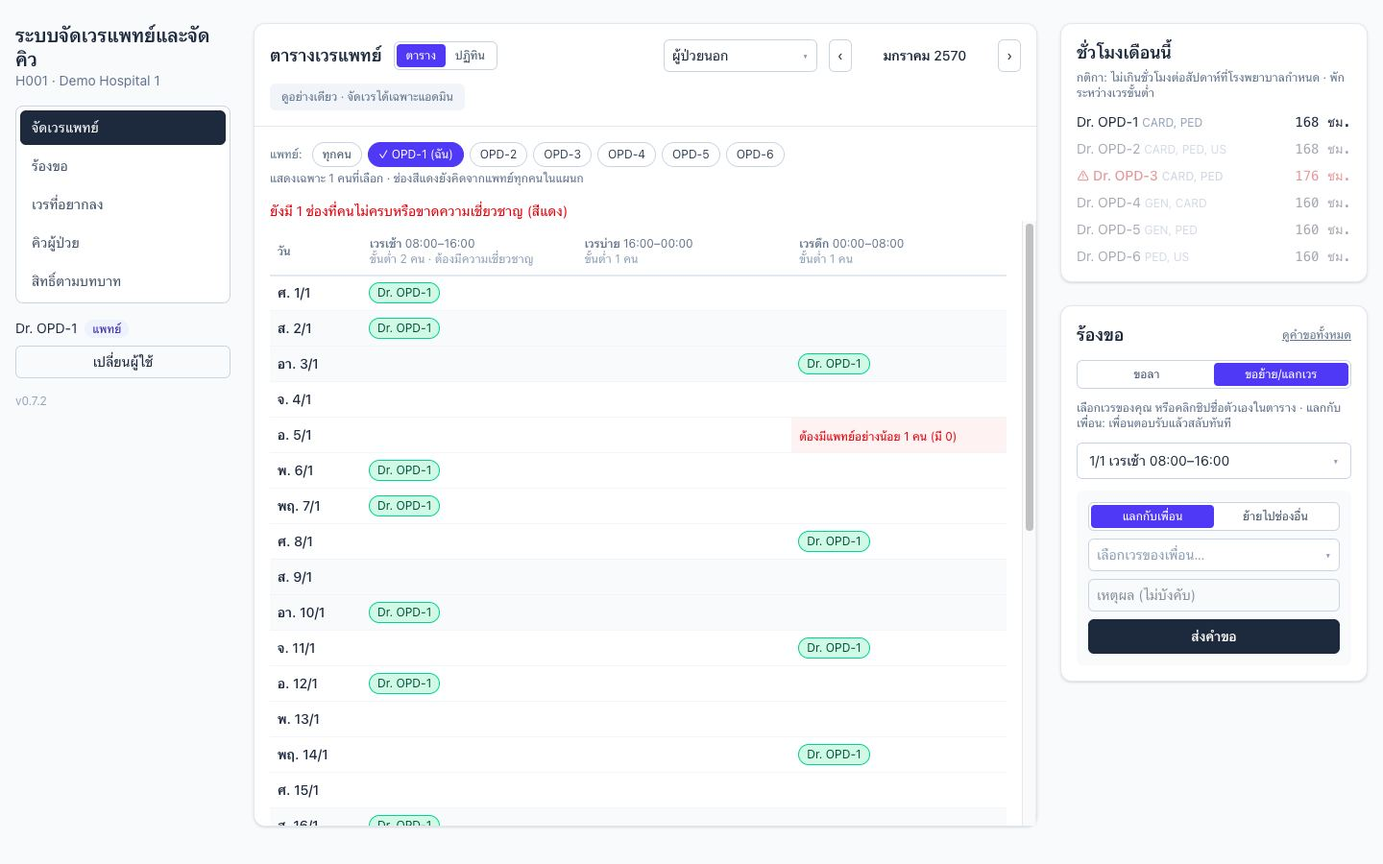
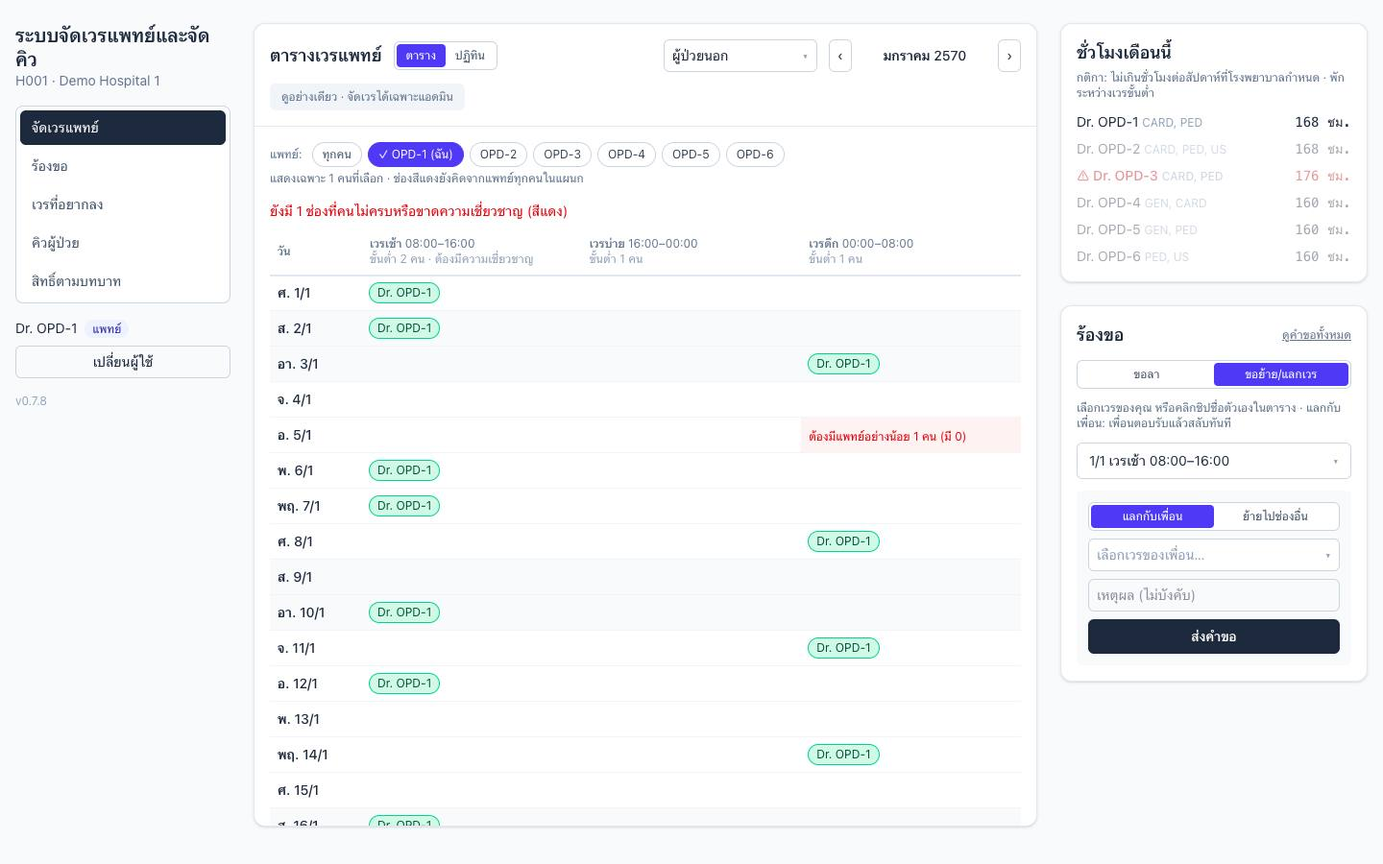
docs: demo screenshots as overview + zoomed detail with links; v0.7.8

diff --git a/docs/ARCHITECTURE.md b/docs/ARCHITECTURE.md
@@ -1,6 +1,6 @@
 # ระบบจัดเวรแพทย์และจัดคิวโรงพยาบาล — Architecture
 
-จิตฤดี ดวงดี · 27 ต.ค. 2569 · โค้ด: [github.com/JitrudeeDongdee/waka-crud](https://github.com/JitrudeeDongdee/waka-crud) · เดโม: [jitrudeedongdee.github.io/waka-crud](https://jitrudeedongdee.github.io/waka-crud/) · ตรงกับเวอร์ชัน v0.7.7
+จิตฤดี ดวงดี · 27 ต.ค. 2569 · โค้ด: [github.com/JitrudeeDongdee/waka-crud](https://github.com/JitrudeeDongdee/waka-crud) · เดโม: [jitrudeedongdee.github.io/waka-crud](https://jitrudeedongdee.github.io/waka-crud/) · ตรงกับเวอร์ชัน v0.7.8
 
 เอกสารนี้อธิบายระบบที่เริ่มจาก 15 โรงพยาบาลและขยายไปถึง 30 แห่ง ได้แก่ ขั้นตอนการทำงาน (BPMN), โครงสร้างฐานข้อมูล (ER diagram), server และ network บน AWS ทีละขั้นของการขยาย, ข้อเสนอฟีเจอร์ถัดไป และหน้าจอเดโม
 
@@ -122,6 +122,8 @@
 
 ---
 
+<div style="break-before: page"></div>
+
 ## 3. Network และ Server
 
 ### 3.1 ขนาดงานที่ต้องรองรับ (ประมาณการ)
@@ -179,6 +181,8 @@
 **ใช้ AWS:** region Asia Pacific (Thailand) `ap-southeast-7` เก็บข้อมูลผู้ป่วยไว้ในประเทศ บริการที่ใช้คือ CloudFront + WAF, ALB, ECS on Fargate, RDS for MySQL, ElastiCache, S3, CloudWatch, ECR, Secrets Manager และ Site-to-Site VPN ต้องตรวจอีกครั้งว่ามีครบใน region นี้ ณ วันที่เริ่มใช้ ถ้าบริการไหนยังไม่มี ให้ใช้ region สิงคโปร์ (`ap-southeast-1`) เฉพาะส่วนที่ไม่เก็บข้อมูลผู้ป่วย
 
 ---
+
+<div style="break-before: page"></div>
 
 ## 4. ข้อเสนอฟีเจอร์ถัดไป
 
@@ -259,102 +263,104 @@
 
 ---
 
+<div style="break-before: page"></div>
+
 ## 5. หน้าจอเดโม
 
-ภาพจากระบบที่รันจริงในเครื่อง (โค้ดเดียวกับเวอร์ชัน v0.7.2) ขนาดจอ 1440×900 ข้อมูลเป็นข้อมูลตัวอย่างทั้งหมด ลองใช้เองได้ที่ [jitrudeedongdee.github.io/waka-crud](https://jitrudeedongdee.github.io/waka-crud/)
+แต่ละกรณีมีภาพเต็มจอ (ซ้าย) และภาพขยายเฉพาะส่วนที่อธิบาย (ขวา) ภาพมาจากระบบที่รันในเครื่องด้วยข้อมูลตัวอย่าง ข้อมูลบนเว็บเดโมสุ่มใหม่ทุกครั้งที่เปิด วันที่และชื่อจึงอาจไม่ตรงกับภาพ แต่หน้าและการทำงานเหมือนกัน เปิดลิงก์แล้วเลือกผู้ใช้ตามที่ระบุ ระบบจะพากลับมาที่หน้านั้น
 
 ### 5.1 หน้าเลือกผู้ใช้ทดลอง
 
-เดโมไม่มีรหัสผ่าน ให้เลือกผู้ใช้ตามบทบาท แต่ละกล่องบอกสิทธิ์ของบทบาทนั้น แพทย์มีครบทุกคนของโรงพยาบาลแรก ระบบจริงใช้ SSO ของโรงพยาบาลแทน (เปิดหน้านี้ได้เฉพาะเมื่อ `DEMO_LOGIN=true`)
+เดโมไม่มีรหัสผ่าน ให้เลือกผู้ใช้ตามบทบาท แต่ละกล่องบอกสิทธิ์ของบทบาทนั้น แพทย์มีครบทุกคนของโรงพยาบาลแรก ระบบจริงใช้ SSO ของโรงพยาบาลแทน (เปิดหน้านี้ได้เฉพาะเมื่อ `DEMO_LOGIN=true`)<br>**เปิดดู:** [https://jitrudeedongdee.github.io/waka-crud/login](https://jitrudeedongdee.github.io/waka-crud/login)
 
-![หน้าเลือกผู้ใช้ทดลอง](screenshots/01-login.jpg)
+![หน้าเลือกผู้ใช้ทดลอง](screenshots/01-login.jpg "ov") ![หน้าเลือกผู้ใช้ทดลอง (ขยาย)](screenshots/01-login-detail.jpg "dt")
 
 ### 5.2 ตารางเวรรายเดือน (หัวหน้าแผนก)
 
-ช่องสีแดง = คนไม่ครบ · กล่องส้ม "ต้องเลือก" = มีแพทย์อยากลงช่องนี้มากกว่าที่ต้องการ ระบบจึงไม่เลือกให้ กดชื่อเพื่อเลือก · ชิปแดง ⚠ = ลงเวรได้แต่ผิดกติกาแบบเตือน (ในภาพ Dr. OPD-3 พักไม่ถึง 8 ชม.) และชื่อในแผงชั่วโมงเป็นสีแดงด้วย · ชิปเขียว ✓ = ได้ตามที่อยากลง · ทุก dropdown ค้นหาได้
+ช่องสีแดง = คนไม่ครบ · กล่องส้ม "ต้องเลือก" = มีแพทย์อยากลงช่องนี้มากกว่าที่ต้องการ ระบบจึงไม่เลือกให้ กดชื่อเพื่อเลือก · ชิปแดง ⚠ = ลงเวรได้แต่ผิดกติกาแบบเตือน (ในภาพ Dr. OPD-3 พักไม่ถึง 8 ชม.) และชื่อในแผงชั่วโมงเป็นสีแดงด้วย · ชิปเขียว ✓ = ได้ตามที่อยากลง · ทุก dropdown ค้นหาได้<br>**เปิดดู:** [https://jitrudeedongdee.github.io/waka-crud/roster/table?dept=1&month=2027-01](https://jitrudeedongdee.github.io/waka-crud/roster/table?dept=1&month=2027-01) · ล็อกอินเป็น หัวหน้าแผนก
 
-![ตารางเวรรายเดือน (หัวหน้าแผนก)](screenshots/02-roster-table.jpg)
+![ตารางเวรรายเดือน (หัวหน้าแผนก)](screenshots/02-roster-table.jpg "ov") ![ตารางเวรรายเดือน (หัวหน้าแผนก) (ขยาย)](screenshots/02-roster-table-detail.jpg "dt")
 
 ### 5.3 ปฏิทินเวร (ทุกคน)
 
-ตัวกรองแพทย์ตัวเดียวกับตาราง สีตามช่วงเวร วันที่มีช่องขาดคนมีกรอบแดง
+ตัวกรองแพทย์ตัวเดียวกับตาราง สีตามช่วงเวร วันที่มีช่องขาดคนมีกรอบแดง<br>**เปิดดู:** [https://jitrudeedongdee.github.io/waka-crud/roster/calendar?dept=1&month=2027-01](https://jitrudeedongdee.github.io/waka-crud/roster/calendar?dept=1&month=2027-01) · ล็อกอินเป็น หัวหน้าแผนก
 
-![ปฏิทินเวร (ทุกคน)](screenshots/03-roster-calendar.jpg)
+![ปฏิทินเวร (ทุกคน)](screenshots/03-roster-calendar.jpg "ov") ![ปฏิทินเวร (ทุกคน) (ขยาย)](screenshots/03-roster-calendar-detail.jpg "dt")
 
 ### 5.4 ปฏิทินเวรเมื่อเลือกแพทย์คนเดียว
 
-สรุปเวรและชั่วโมงในเดือน วันลา และชั่วโมงต่อสัปดาห์เทียบเพดานทางขวา เวรที่ผิดกติกาเป็นสีแดง
+สรุปเวรและชั่วโมงในเดือน วันลา และชั่วโมงต่อสัปดาห์เทียบเพดานทางขวา เวรที่ผิดกติกาเป็นสีแดง<br>**เปิดดู:** [https://jitrudeedongdee.github.io/waka-crud/roster/calendar?dept=1&month=2027-01&doctors=3](https://jitrudeedongdee.github.io/waka-crud/roster/calendar?dept=1&month=2027-01&doctors=3) · ล็อกอินเป็น หัวหน้าแผนก
 
-![ปฏิทินเวรเมื่อเลือกแพทย์คนเดียว](screenshots/04-roster-calendar-doctor.jpg)
+![ปฏิทินเวรเมื่อเลือกแพทย์คนเดียว](screenshots/04-roster-calendar-doctor.jpg "ov") ![ปฏิทินเวรเมื่อเลือกแพทย์คนเดียว (ขยาย)](screenshots/04-roster-calendar-doctor-detail.jpg "dt")
 
 ### 5.5 ร้องขอข้างตารางเวร (แพทย์)
 
-แพทย์เห็นเวรของตัวเองเป็นสีเขียว คลิกชิปเวรที่ยังไม่เริ่มแล้วกล่อง "ร้องขอ" สลับไปแท็บขอย้าย/แลกเวรพร้อมเลือกเวรนั้นให้ เลือกแลกกับเพื่อนหรือย้ายไปช่องอื่นได้โดยยังเห็นตาราง
+แพทย์เห็นเวรของตัวเองเป็นสีเขียว คลิกชิปเวรที่ยังไม่เริ่มแล้วกล่อง "ร้องขอ" สลับไปแท็บขอย้าย/แลกเวรพร้อมเลือกเวรนั้นให้ เลือกแลกกับเพื่อนหรือย้ายไปช่องอื่นได้โดยยังเห็นตาราง<br>**เปิดดู:** [https://jitrudeedongdee.github.io/waka-crud/roster/table?dept=1&doctors=1](https://jitrudeedongdee.github.io/waka-crud/roster/table?dept=1&doctors=1) · ล็อกอินเป็น Dr. OPD-1
 
-![ร้องขอข้างตารางเวร (แพทย์)](screenshots/05-roster-request-panel.jpg)
+![ร้องขอข้างตารางเวร (แพทย์)](screenshots/05-roster-request-panel.jpg "ov") ![ร้องขอข้างตารางเวร (แพทย์) (ขยาย)](screenshots/05-roster-request-panel-detail.jpg "dt")
 
 ### 5.6 เวรที่อยากลง (แพทย์)
 
-กดช่องเพื่อสลับ อยากลง / ไม่สะดวก · สรุปชั่วโมงรายสัปดาห์เทียบเพดาน เกินแล้วยังเลือกได้แต่เป็นสีแดง · วันที่ขอลาไว้เลือกไม่ได้ · ประวัติรายเดือนทางขวา กดเพื่อเปิดเดือนนั้น
+กดช่องเพื่อสลับ อยากลง / ไม่สะดวก · สรุปชั่วโมงรายสัปดาห์เทียบเพดาน เกินแล้วยังเลือกได้แต่เป็นสีแดง · วันที่ขอลาไว้เลือกไม่ได้ · ประวัติรายเดือนทางขวา กดเพื่อเปิดเดือนนั้น<br>**เปิดดู:** [https://jitrudeedongdee.github.io/waka-crud/preferences?month=2026-12](https://jitrudeedongdee.github.io/waka-crud/preferences?month=2026-12) · ล็อกอินเป็น Dr. OPD-1
 
-![เวรที่อยากลง (แพทย์)](screenshots/06-preferences.jpg)
+![เวรที่อยากลง (แพทย์)](screenshots/06-preferences.jpg "ov") ![เวรที่อยากลง (แพทย์) (ขยาย)](screenshots/06-preferences-detail.jpg "dt")
 
 ### 5.7 คำขอแลกเวรที่เพื่อนส่งมา (แพทย์ผู้ถูกขอ)
 
-เห็นว่าเพื่อนขอแลกเวรไหนกับเวรไหน พร้อมปัญหาที่ระบบตรวจเจอล่วงหน้า ถ้าตอบรับและไม่ผิดกติกา ระบบสลับให้ทันที
+เห็นว่าเพื่อนขอแลกเวรไหนกับเวรไหน พร้อมปัญหาที่ระบบตรวจเจอล่วงหน้า ถ้าตอบรับและไม่ผิดกติกา ระบบสลับให้ทันที<br>**เปิดดู:** [https://jitrudeedongdee.github.io/waka-crud/requests/shifts](https://jitrudeedongdee.github.io/waka-crud/requests/shifts) · ล็อกอินเป็น Dr. OPD-2
 
-![คำขอแลกเวรที่เพื่อนส่งมา (แพทย์ผู้ถูกขอ)](screenshots/07-requests-swap-incoming.jpg)
+![คำขอแลกเวรที่เพื่อนส่งมา (แพทย์ผู้ถูกขอ)](screenshots/07-requests-swap-incoming.jpg "ov") ![คำขอแลกเวรที่เพื่อนส่งมา (แพทย์ผู้ถูกขอ) (ขยาย)](screenshots/07-requests-swap-incoming-detail.jpg "dt")
 
 ### 5.8 คำขอที่รอหัวหน้าเคลียร์
 
-คำขอแลกที่เพื่อนตอบรับแล้วแต่ผิดกติกา หัวหน้าเปิดตารางของแพทย์ที่เกี่ยวข้อง เคลียร์ แล้วอนุมัติ (ระบบไม่ให้อนุมัติถ้ายังผิดกติกา) หรือไม่อนุมัติพร้อมหมายเหตุ
+คำขอแลกที่เพื่อนตอบรับแล้วแต่ผิดกติกา หัวหน้าเปิดตารางของแพทย์ที่เกี่ยวข้อง เคลียร์ แล้วอนุมัติ (ระบบไม่ให้อนุมัติถ้ายังผิดกติกา) หรือไม่อนุมัติพร้อมหมายเหตุ<br>**เปิดดู:** [https://jitrudeedongdee.github.io/waka-crud/requests/shifts](https://jitrudeedongdee.github.io/waka-crud/requests/shifts) · ล็อกอินเป็น หัวหน้าแผนก
 
-![คำขอที่รอหัวหน้าเคลียร์](screenshots/08-requests-swap-admin.jpg)
+![คำขอที่รอหัวหน้าเคลียร์](screenshots/08-requests-swap-admin.jpg "ov") ![คำขอที่รอหัวหน้าเคลียร์ (ขยาย)](screenshots/08-requests-swap-admin-detail.jpg "dt")
 
 ### 5.9 คำขอลา (หัวหน้าแผนก)
 
-กล่องคำขอแยกตามสถานะ ถ้าวันนั้นแพทย์มีเวรอยู่ ระบบเตือนให้ย้ายเวรก่อนและปุ่มอนุมัติกดไม่ได้
+กล่องคำขอแยกตามสถานะ ถ้าวันนั้นแพทย์มีเวรอยู่ ระบบเตือนให้ย้ายเวรก่อนและปุ่มอนุมัติกดไม่ได้<br>**เปิดดู:** [https://jitrudeedongdee.github.io/waka-crud/requests/leave](https://jitrudeedongdee.github.io/waka-crud/requests/leave) · ล็อกอินเป็น หัวหน้าแผนก
 
-![คำขอลา (หัวหน้าแผนก)](screenshots/09-requests-leave-admin.jpg)
+![คำขอลา (หัวหน้าแผนก)](screenshots/09-requests-leave-admin.jpg "ov") ![คำขอลา (หัวหน้าแผนก) (ขยาย)](screenshots/09-requests-leave-admin-detail.jpg "dt")
 
 ### 5.10 รายการคิว (พยาบาลคัดกรอง)
 
-เลขคิวตัวเลขล้วน หลักแรกบอกแผนก · พยาบาลแก้ความเร่งด่วนและความเชี่ยวชาญของคิวที่รอเรียกได้ในแถว · คอลัมน์แพทย์บอกแพทย์ที่อยู่เวรตอนนี้และรับคิวนั้นได้ ถ้าไม่มีใครรับได้ขึ้นสีแดง · ค้นหาเลขคิวและกรองความเร่งด่วน/แพทย์ได้
+เลขคิวตัวเลขล้วน หลักแรกบอกแผนก · พยาบาลแก้ความเร่งด่วนและความเชี่ยวชาญของคิวที่รอเรียกได้ในแถว · คอลัมน์แพทย์บอกแพทย์ที่อยู่เวรตอนนี้และรับคิวนั้นได้ ถ้าไม่มีใครรับได้ขึ้นสีแดง · ค้นหาเลขคิวและกรองความเร่งด่วน/แพทย์ได้<br>**เปิดดู:** [https://jitrudeedongdee.github.io/waka-crud/queue/list](https://jitrudeedongdee.github.io/waka-crud/queue/list) · ล็อกอินเป็น พยาบาลคัดกรอง
 
-![รายการคิว (พยาบาลคัดกรอง)](screenshots/10-queue-list-nurse.jpg)
+![รายการคิว (พยาบาลคัดกรอง)](screenshots/10-queue-list-nurse.jpg "ov") ![รายการคิว (พยาบาลคัดกรอง) (ขยาย)](screenshots/10-queue-list-nurse-detail.jpg "dt")
 
 ### 5.11 ห้องตรวจของแพทย์
 
-คิวปัจจุบัน (กำลังตรวจ) พร้อมเวลาที่เรียก ปุ่มเรียกคิวถัดไปกดไม่ได้จนกว่าจะกดเสร็จสิ้น · กล่องคิวถัดไป · ในรายการ คิวที่กำลังตรวจเป็นสีม่วง คิวที่เสร็จแล้วเป็นสีเทาอยู่ด้านล่าง
+คิวปัจจุบัน (กำลังตรวจ) พร้อมเวลาที่เรียก ปุ่มเรียกคิวถัดไปกดไม่ได้จนกว่าจะกดเสร็จสิ้น · กล่องคิวถัดไป · ในรายการ คิวที่กำลังตรวจเป็นสีม่วง คิวที่เสร็จแล้วเป็นสีเทาอยู่ด้านล่าง<br>**เปิดดู:** [https://jitrudeedongdee.github.io/waka-crud/queue/list](https://jitrudeedongdee.github.io/waka-crud/queue/list) · ล็อกอินเป็น Dr. OPD-1
 
-![ห้องตรวจของแพทย์](screenshots/11-queue-exam-room.jpg)
+![ห้องตรวจของแพทย์](screenshots/11-queue-exam-room.jpg "ov") ![ห้องตรวจของแพทย์ (ขยาย)](screenshots/11-queue-exam-room-detail.jpg "dt")
 
 ### 5.12 dropdown ที่ค้นหาได้
 
-ใช้ทุกจุดในระบบ พิมพ์เพื่อกรอง (ในภาพพิมพ์ "LAB") ใช้ลูกศร/Enter ได้ รายการสูงไม่เกิน 240px แล้วเลื่อนในกล่อง
+ใช้ทุกจุดในระบบ พิมพ์เพื่อกรอง (ในภาพพิมพ์ "LAB") ใช้ลูกศร/Enter ได้ รายการสูงไม่เกิน 240px แล้วเลื่อนในกล่อง<br>**เปิดดู:** [https://jitrudeedongdee.github.io/waka-crud/queue/list](https://jitrudeedongdee.github.io/waka-crud/queue/list) · ล็อกอินเป็น พยาบาลคัดกรอง
 
-![dropdown ที่ค้นหาได้](screenshots/12-searchable-dropdown.jpg)
+![dropdown ที่ค้นหาได้](screenshots/12-searchable-dropdown.jpg "ov") ![dropdown ที่ค้นหาได้ (ขยาย)](screenshots/12-searchable-dropdown-detail.jpg "dt")
 
 ### 5.13 ปฏิทินคิวรายเดือน
 
-จำนวนคิว เสร็จแล้ว และเวลารอเฉลี่ยต่อวัน สีเข้มตามความหนาแน่น วันที่ผ่านมาอ่านจากตารางสรุปรายวัน วันนี้นับสด
+จำนวนคิว เสร็จแล้ว และเวลารอเฉลี่ยต่อวัน สีเข้มตามความหนาแน่น วันที่ผ่านมาอ่านจากตารางสรุปรายวัน วันนี้นับสด<br>**เปิดดู:** [https://jitrudeedongdee.github.io/waka-crud/queue/month](https://jitrudeedongdee.github.io/waka-crud/queue/month) · ล็อกอินเป็น พยาบาลคัดกรอง
 
-![ปฏิทินคิวรายเดือน](screenshots/13-queue-month.jpg)
+![ปฏิทินคิวรายเดือน](screenshots/13-queue-month.jpg "ov") ![ปฏิทินคิวรายเดือน (ขยาย)](screenshots/13-queue-month-detail.jpg "dt")
 
 ### 5.14 ปฏิทินคิวรายสัปดาห์
 
-ตารางวัน × ชั่วโมงของคิวที่ออก เห็นช่วงเวลาที่คนไข้หนาแน่น
+ตารางวัน × ชั่วโมงของคิวที่ออก เห็นช่วงเวลาที่คนไข้หนาแน่น<br>**เปิดดู:** [https://jitrudeedongdee.github.io/waka-crud/queue/week](https://jitrudeedongdee.github.io/waka-crud/queue/week) · ล็อกอินเป็น พยาบาลคัดกรอง
 
-![ปฏิทินคิวรายสัปดาห์](screenshots/14-queue-week.jpg)
+![ปฏิทินคิวรายสัปดาห์](screenshots/14-queue-week.jpg "ov") ![ปฏิทินคิวรายสัปดาห์ (ขยาย)](screenshots/14-queue-week-detail.jpg "dt")
 
 ### 5.15 หน้าแพทย์ (หัวหน้าแผนก)
 
-แพทย์ทุกคนพร้อมความเชี่ยวชาญ เวรและชั่วโมงเดือนนี้ เวรถัดไป คำขอลาที่รอ · คลิกชื่อเพื่อแก้ชื่อและความเชี่ยวชาญ · เพิ่มแพทย์ใหม่พร้อมบัญชีผู้ใช้
+แพทย์ทุกคนพร้อมความเชี่ยวชาญ เวรและชั่วโมงเดือนนี้ เวรถัดไป คำขอลาที่รอ · คลิกชื่อเพื่อแก้ชื่อและความเชี่ยวชาญ · เพิ่มแพทย์ใหม่พร้อมบัญชีผู้ใช้<br>**เปิดดู:** [https://jitrudeedongdee.github.io/waka-crud/staff?id=2](https://jitrudeedongdee.github.io/waka-crud/staff?id=2) · ล็อกอินเป็น หัวหน้าแผนก
 
-![หน้าแพทย์ (หัวหน้าแผนก)](screenshots/15-staff.jpg)
+![หน้าแพทย์ (หัวหน้าแผนก)](screenshots/15-staff.jpg "ov") ![หน้าแพทย์ (หัวหน้าแผนก) (ขยาย)](screenshots/15-staff-detail.jpg "dt")
 
 ### 5.16 สิทธิ์ตามบทบาท
 
-ตารางสิทธิ์จาก `App\Enums\Role` ตัวเดียวกับที่ backend ใช้ตรวจทุก request
+ตารางสิทธิ์จาก `App\Enums\Role` ตัวเดียวกับที่ backend ใช้ตรวจทุก request<br>**เปิดดู:** [https://jitrudeedongdee.github.io/waka-crud/roles](https://jitrudeedongdee.github.io/waka-crud/roles) · ล็อกอินเป็น ทุกบทบาท
 
-![สิทธิ์ตามบทบาท](screenshots/16-roles.jpg)
+![สิทธิ์ตามบทบาท](screenshots/16-roles.jpg "ov") ![สิทธิ์ตามบทบาท (ขยาย)](screenshots/16-roles-detail.jpg "dt")
